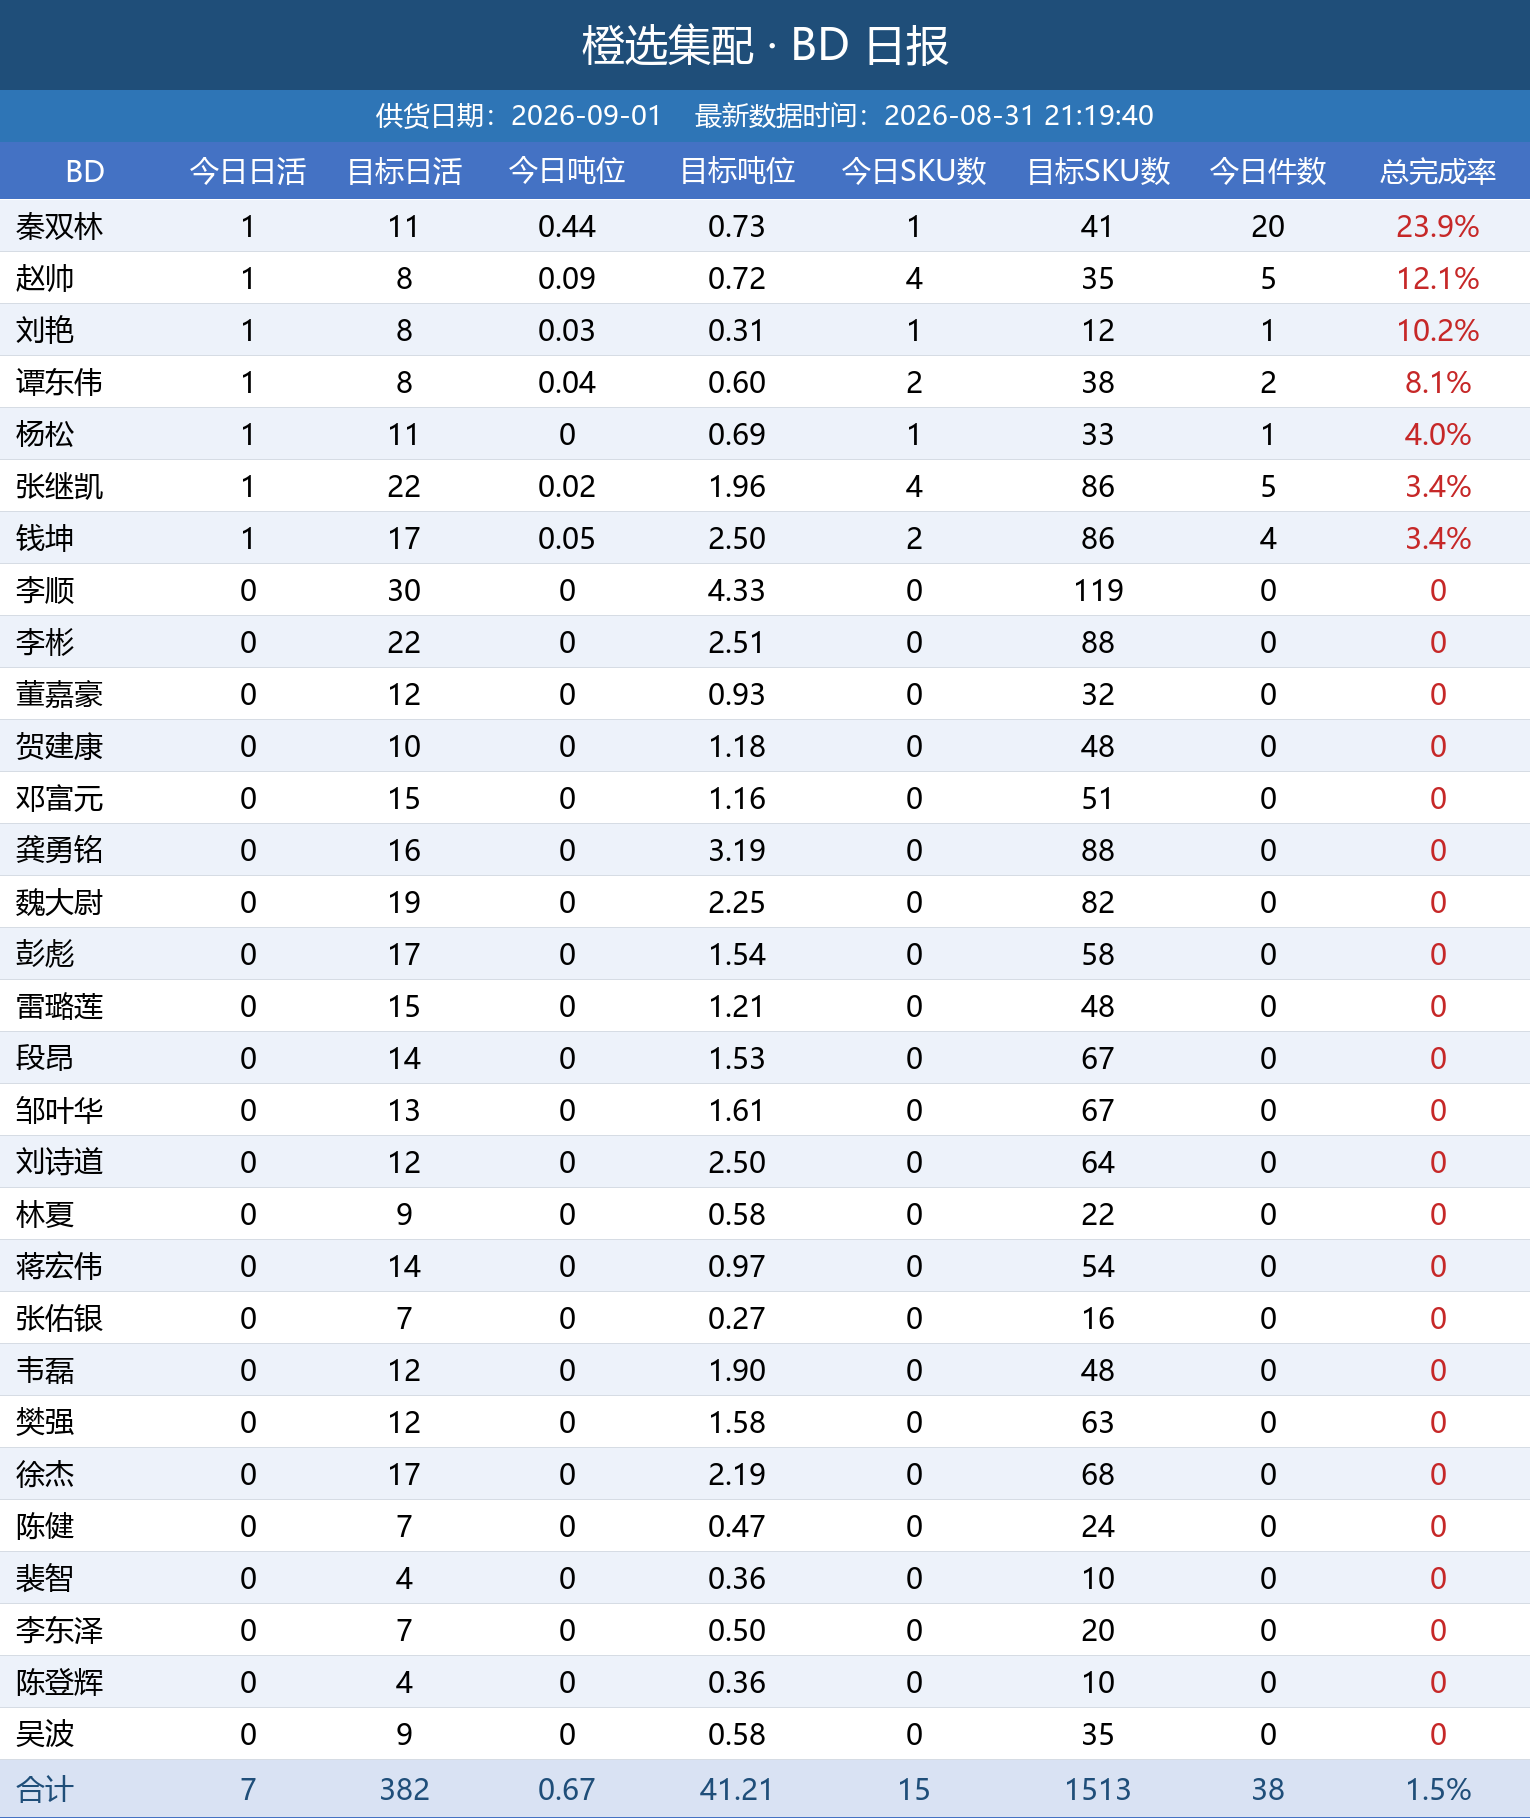
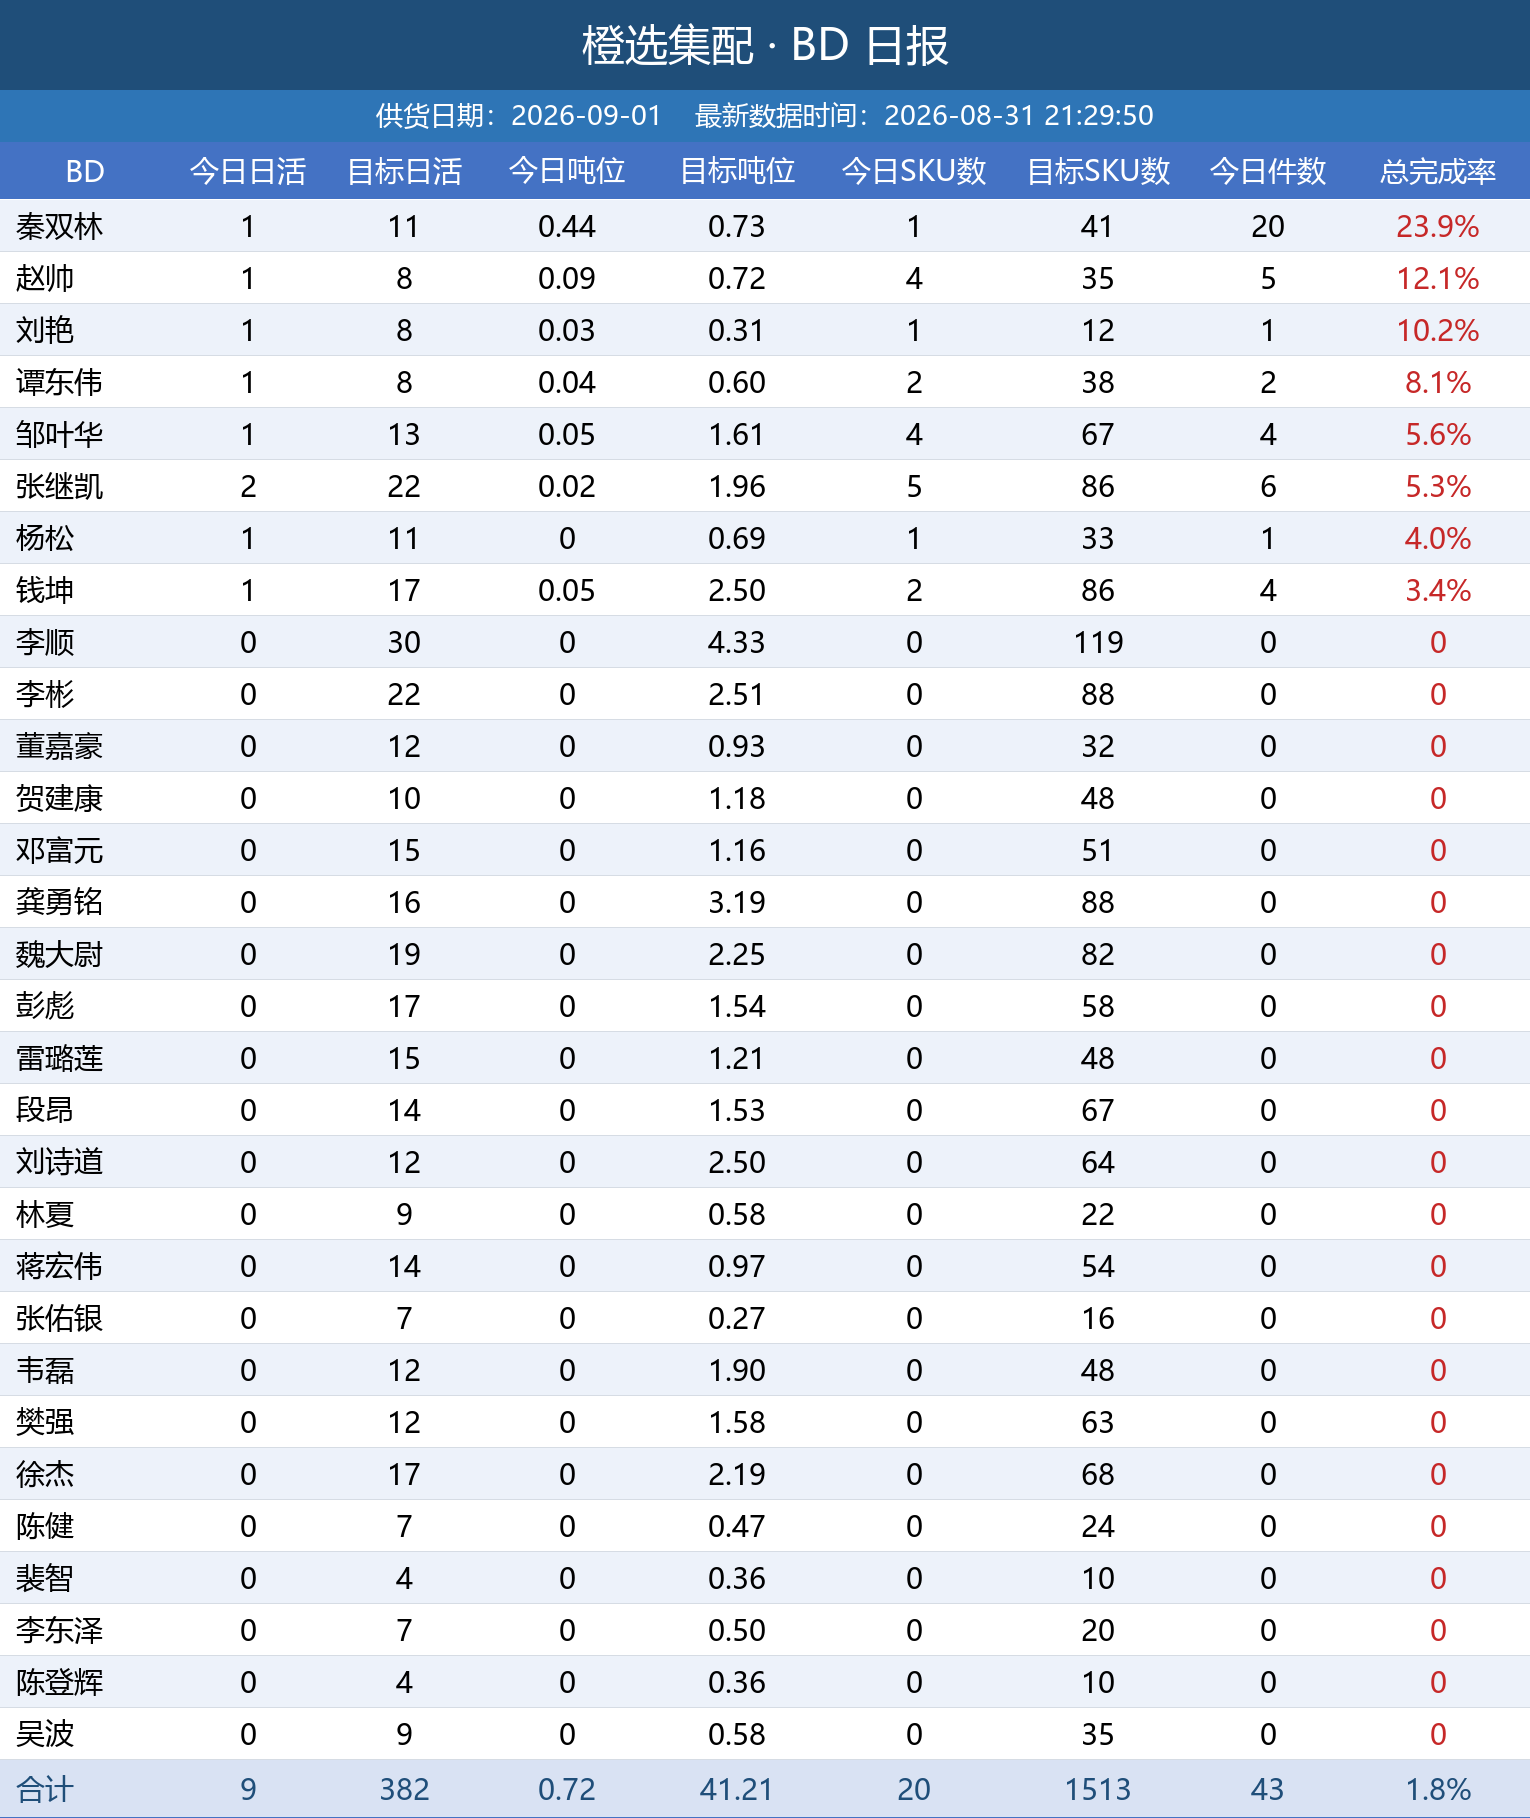
自动更新日报图片

diff --git a/index.html b/index.html
@@ -11,7 +11,7 @@ img { max-width: 100%; border: 1px solid #e5e5e5; margin-bottom: 24px; display: 
 </style>
 </head>
 <body>
-<h1>橙选集配日报图片（20260831_211942）</h1>
+<h1>橙选集配日报图片（20260831_212953）</h1>
 <img src="bd_latest.png" alt="BD 日报">
 <img src="wh_latest.png" alt="城市仓日报">
 <img src="zs_latest.png" alt="招商日报">
